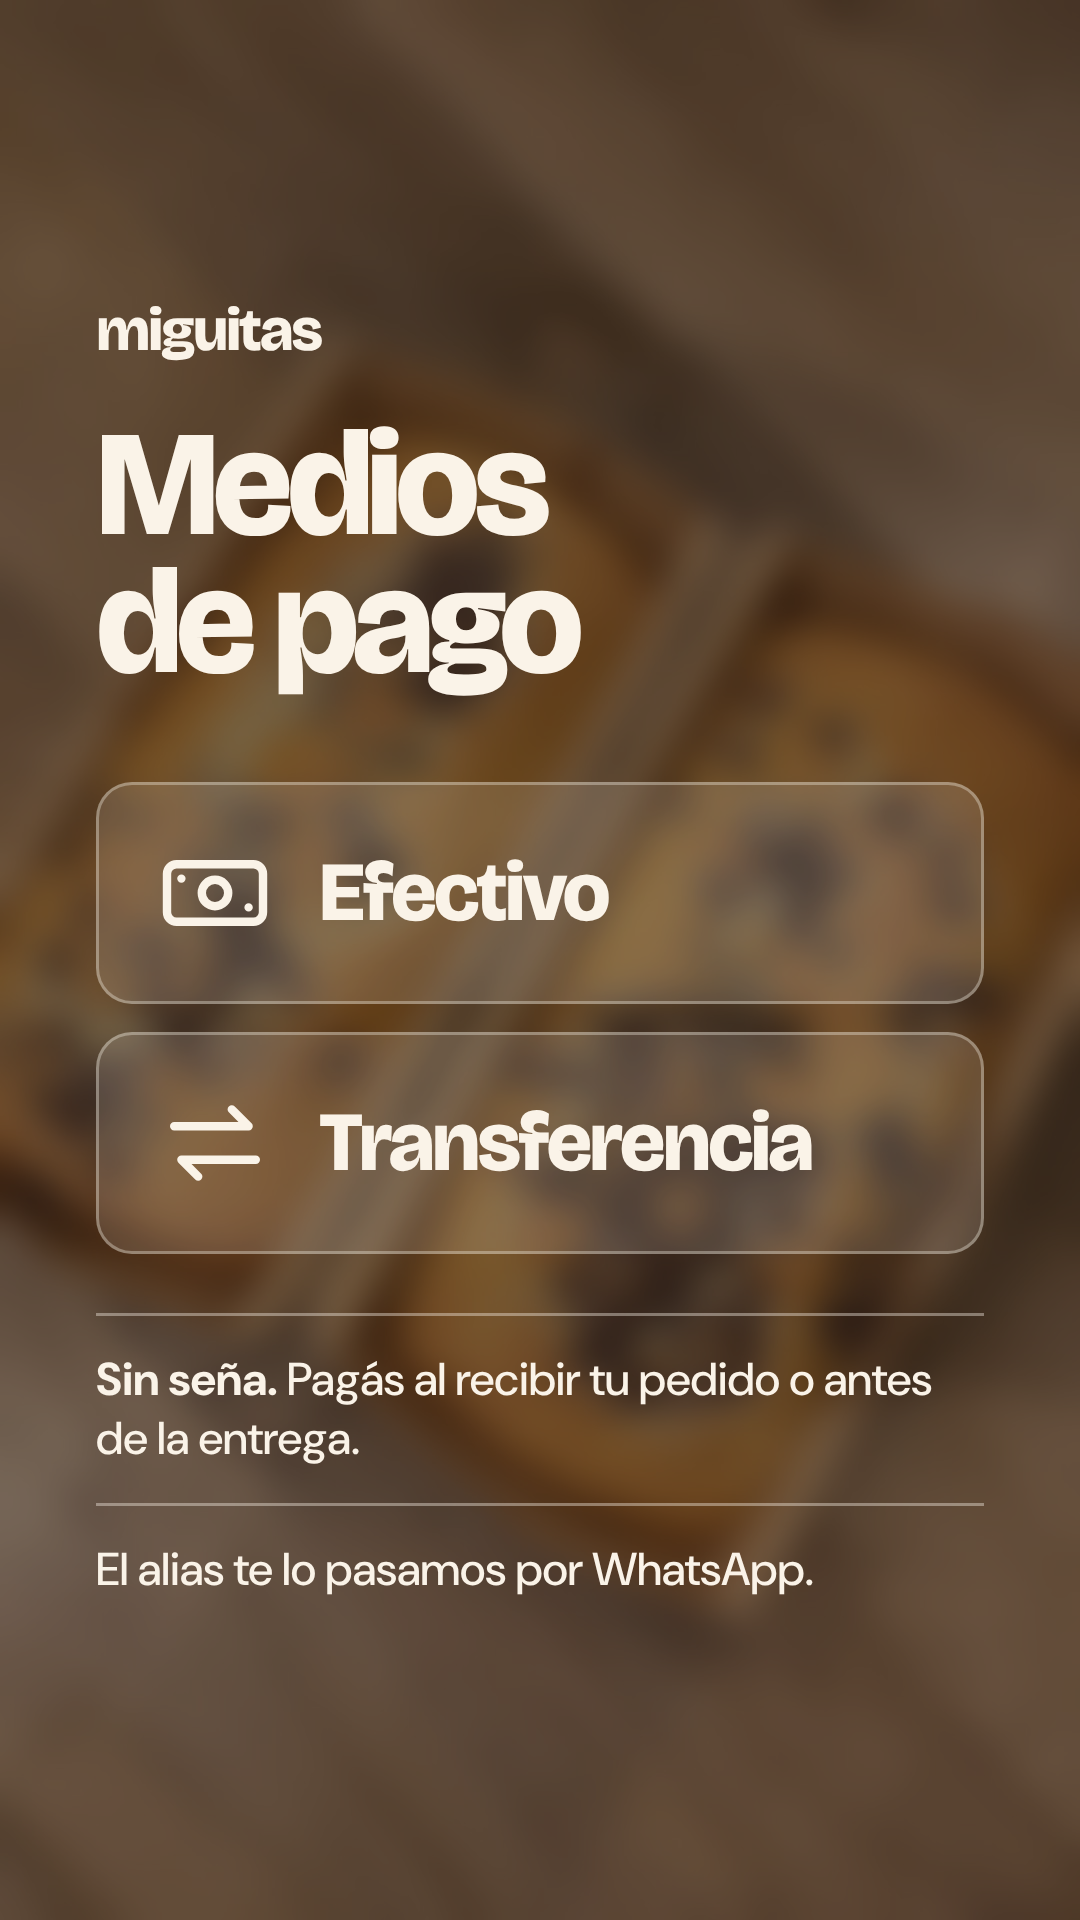
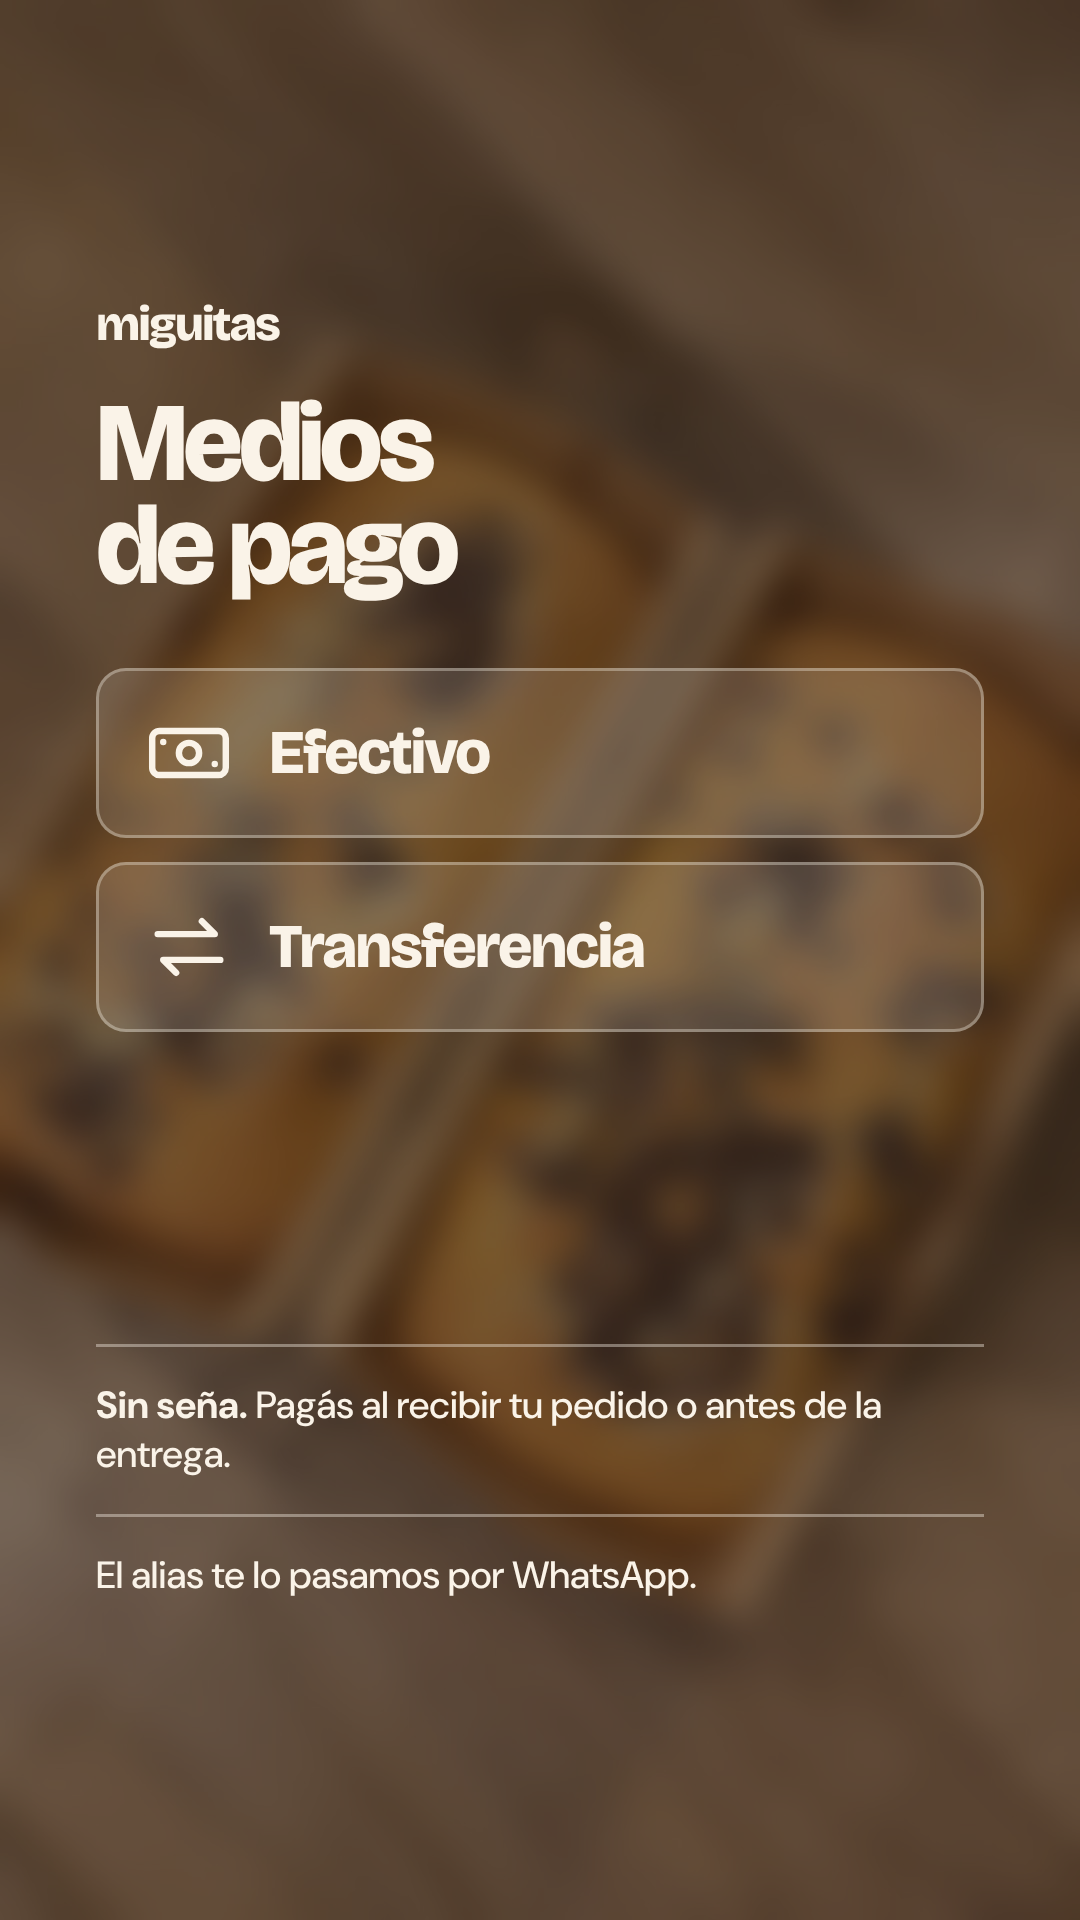
Instagram: medios de pago con letra más chica e historia de entregas
Claude-Session: https://claude.ai/code/session_01E37741rvoTVLUcn2uQcmpN

Changed region(s): [[0.0917, 0.1562, 0.9167, 0.6562], [0.0917, 0.6875, 0.8556, 0.8438]]

diff --git a/instagram/piezas.html b/instagram/piezas.html
@@ -120,18 +120,18 @@ body{background:#ddd;display:flex;flex-wrap:wrap;gap:40px;padding:40px;font-fami
 
 /* Historias para destacadas (1080x1920, deja libres arriba y abajo para la interfaz) */
 .historia{width:1080px;height:1920px;padding:300px 96px 320px;display:flex;flex-direction:column}
-.historia h1{font-family:var(--display);font-weight:800;font-size:150px;letter-spacing:-.045em;line-height:.92}
-.historia .marca.chica{font-size:60px;margin-bottom:56px}
-#h-pagos{background:url(fotos/fondo-historia-chips.jpg) center/cover;color:var(--crema)}
-#h-pagos::before{content:"";position:absolute;inset:0;background:rgba(43,29,22,.62)}
-#h-pagos>*{position:relative}
-#h-pagos .medios{display:flex;flex-direction:column;gap:28px;margin-top:90px}
-#h-pagos .medio{background:rgba(250,243,232,.14);border:3px solid rgba(250,243,232,.35);border-radius:36px;padding:48px 56px;display:flex;align-items:center;gap:44px}
-#h-pagos .medio svg{width:120px;height:120px;flex:none;fill:none;stroke:var(--crema);stroke-width:7;stroke-linecap:round;stroke-linejoin:round}
-#h-pagos .medio b{font-family:var(--display);font-weight:800;font-size:84px;letter-spacing:-.035em;line-height:1}
-#h-pagos .nota{margin-top:auto;display:flex;flex-direction:column;gap:34px}
-#h-pagos .nota p{font-size:46px;font-weight:500;line-height:1.3;border-top:3px solid rgba(250,243,232,.4);padding-top:34px}
-#h-pagos .nota strong{font-weight:700}
+.historia h1{font-family:var(--display);font-weight:800;font-size:112px;letter-spacing:-.045em;line-height:.92}
+.historia .marca.chica{font-size:48px;margin-bottom:44px}
+#h-pagos,#h-envios{background:url(fotos/fondo-historia-chips.jpg) center/cover;color:var(--crema)}
+#h-pagos::before,#h-envios::before{content:"";position:absolute;inset:0;background:rgba(43,29,22,.62)}
+#h-pagos>*,#h-envios>*{position:relative}
+#h-pagos .medios,#h-envios .medios{display:flex;flex-direction:column;gap:24px;margin-top:70px}
+#h-pagos .medio,#h-envios .medio{background:rgba(250,243,232,.14);border:3px solid rgba(250,243,232,.35);border-radius:30px;padding:36px 44px;display:flex;align-items:center;gap:34px}
+#h-pagos .medio svg,#h-envios .medio svg{width:92px;height:92px;flex:none;fill:none;stroke:var(--crema);stroke-width:7;stroke-linecap:round;stroke-linejoin:round}
+#h-pagos .medio b,#h-envios .medio b{font-family:var(--display);font-weight:800;font-size:62px;letter-spacing:-.035em;line-height:1}
+#h-pagos .nota,#h-envios .nota{margin-top:auto;display:flex;flex-direction:column;gap:34px}
+#h-pagos .nota p,#h-envios .nota p{font-size:38px;font-weight:500;line-height:1.3;border-top:3px solid rgba(250,243,232,.4);padding-top:34px}
+#h-pagos .nota strong,#h-envios .nota strong{font-weight:700}
 
 /* Historias de producto: foto completa, texto abajo */
 .h-prod{width:1080px;height:1920px;padding:300px 96px 330px;display:flex;flex-direction:column;color:var(--crema);background-size:cover;background-position:center}
@@ -145,6 +145,8 @@ body{background:#ddd;display:flex;flex-wrap:wrap;gap:40px;padding:40px;font-fami
 #h-chips{background-image:url(fotos/chips-mantel.jpg)}
 #h-limon{background-image:url(fotos/limon-en-mano-patio.jpg);background-position:50% 30%}
 #h-limon::before{background:linear-gradient(180deg,rgba(43,29,22,.55) 0%,rgba(43,29,22,0) 18%,rgba(43,29,22,0) 42%,rgba(43,29,22,.9) 72%)}
+#h-envios{background-image:url(fotos/fondo-historia-limon.jpg)}
+#h-envios .medio small{display:block;font-size:34px;font-weight:500;margin-top:8px;opacity:.85}
 </style></head><body>
 
 <div class="pieza" id="perfil">
@@ -290,5 +292,18 @@ body{background:#ddd;display:flex;flex-wrap:wrap;gap:40px;padding:40px;font-fami
 <div class="pieza h-prod" id="h-limon">
   <div class="marca chica">miguitas</div>
   <div class="abajo"><h1>Limón</h1><p>Glaseado, con ralladura.</p><span class="chip">500 g</span></div>
+</div>
+
+<div class="pieza historia" id="h-envios">
+  <div class="marca chica">miguitas</div>
+  <h1>Entregas</h1>
+  <div class="medios">
+    <div class="medio"><svg viewBox="0 0 100 100"><rect x="14" y="20" width="72" height="66" rx="8"/><path d="M14 40h72M32 12v16M68 12v16"/></svg><div><b>Fines de semana</b><small>Sábado y domingo</small></div></div>
+    <div class="medio"><svg viewBox="0 0 100 100"><path d="M50 88S24 62 24 44a26 26 0 0 1 52 0c0 18-26 44-26 44z"/><circle cx="50" cy="44" r="9"/></svg><div><b>San Martín</b><small>Mendoza</small></div></div>
+  </div>
+  <div class="nota">
+    <p><strong>Encargá durante la semana</strong> y coordinamos día y horario.</p>
+    <p>Escribinos por WhatsApp, link en el perfil.</p>
+  </div>
 </div>
 </body></html>

diff --git a/instagram/exportar.js b/instagram/exportar.js
@@ -17,7 +17,7 @@ const path = require('path');
   for (const [i, id] of carrusel.entries())
     await p.locator('#' + id).screenshot({ path: path.join(__dirname, 'export', 'primer-post', (i + 1) + '.png') });
   // Historias para las destacadas
-  for (const [id, n] of [['h-pagos', 'medios-de-pago'], ['h-chips', 'productos-chips'], ['h-limon', 'productos-limon']])
+  for (const [id, n] of [['h-pagos', 'medios-de-pago'], ['h-envios', 'envios'], ['h-chips', 'productos-chips'], ['h-limon', 'productos-limon']])
     await p.locator('#' + id).screenshot({ path: path.join(__dirname, 'export', 'destacadas', n + '.png') });
   console.log('fuentes:', await p.evaluate(() => [...document.fonts].filter(f => f.status === 'loaded').length));
   await b.close();
